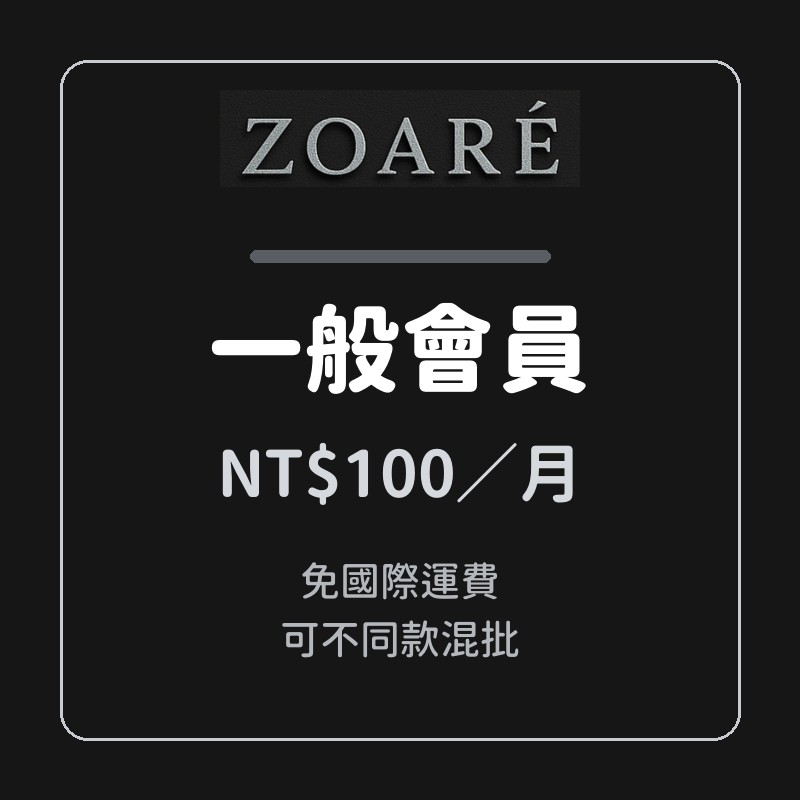
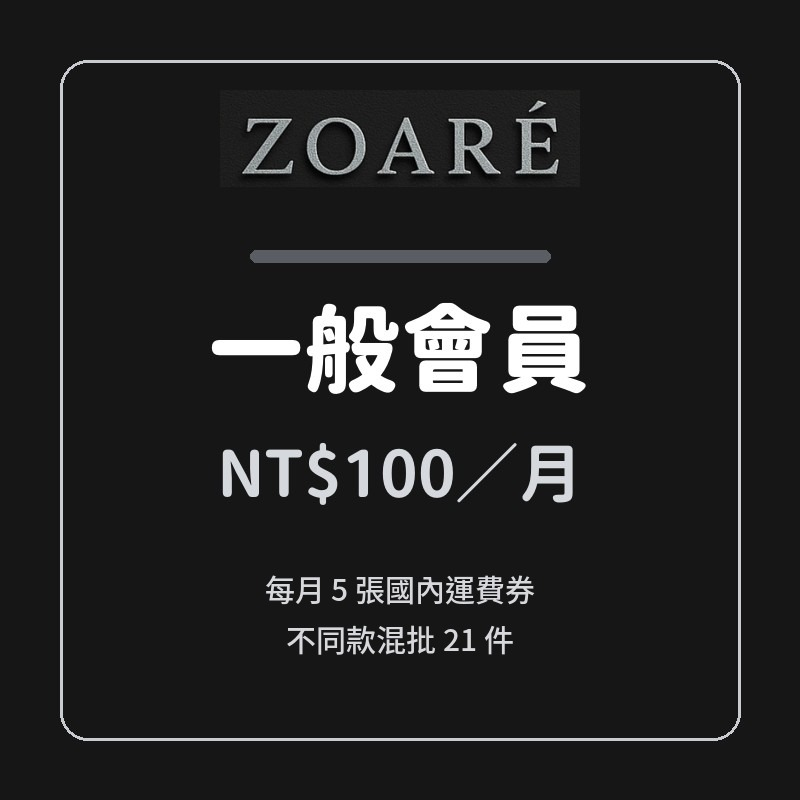
運費券取代會員免運（一般5張國內、VIP 10國內＋10國際）、每次出貨國內$60＋國際每公斤$220、湊滿時 LINE 問客人出貨或順延；更新歡迎訊息、會員卡片、AI 客服規則
Claude-Session: https://claude.ai/code/session_01AQ8Wd57HiUH89BJX3KnLGT

Changed region(s): [[0.3125, 0.6875, 0.6875, 0.8438]]

diff --git a/shop.js b/shop.js
@@ -87,8 +87,8 @@ function packN(it) {
 let SLIM = null, SLIM_SRC = null, SLIM_TXT = null, SLIM_TXT_KEY = "";
 function hashStr(s) { let h = 5381; for (let i = 0; i < s.length; i++) h = ((h << 5) + h + s.charCodeAt(i)) | 0; return (h >>> 0).toString(36) + s.length.toString(36); }
 const MEMBER_ITEMS = [
-  { k: "MEMBER|VIP", n: "VIP 會員（月費）國際＋國內運費全免・VIP 專屬價", b: "ZOARÉ 會員方案", s: "", g: 1000, v: 1000, img: "https://raw.githubusercontent.com/Gg86384577/zoare-images/main/img/member_vip.jpg", moq: 0, box: 0, pk: "", st: "", sh: "", dl: "", jan: "", ad: "", c: ["會員方案"], mem: "vip" },
-  { k: "MEMBER|GEN", n: "一般會員（月費）只免國際運費", b: "ZOARÉ 會員方案", s: "", g: 100, v: 100, img: "https://raw.githubusercontent.com/Gg86384577/zoare-images/main/img/member_gen.jpg", moq: 0, box: 0, pk: "", st: "", sh: "", dl: "", jan: "", ad: "", c: ["會員方案"], mem: "member" },
+  { k: "MEMBER|VIP", n: "VIP 會員（月費）每月 10 張國內＋10 張國際運費券・VIP 專屬價", b: "ZOARÉ 會員方案", s: "", g: 1000, v: 1000, img: "https://raw.githubusercontent.com/Gg86384577/zoare-images/main/img/member_vip.jpg?v=2", moq: 0, box: 0, pk: "", st: "", sh: "", dl: "", jan: "", ad: "", c: ["會員方案"], mem: "vip" },
+  { k: "MEMBER|GEN", n: "一般會員（月費）每月 5 張國內運費券", b: "ZOARÉ 會員方案", s: "", g: 100, v: 100, img: "https://raw.githubusercontent.com/Gg86384577/zoare-images/main/img/member_gen.jpg?v=2", moq: 0, box: 0, pk: "", st: "", sh: "", dl: "", jan: "", ad: "", c: ["會員方案"], mem: "member" },
 ];
 // 網站多加的分類（LINE 選單按鈕有上限，不放這些）
 const WEB_CATS = [
@@ -333,7 +333,7 @@ export async function handleShop(request, env, ctx, deps) {
     if (!uid) return Response.json({ ok: false, error: "連結無效，請回到 LINE 重新點訂購連結" }, { status: 401 });
     const tier = await getTier(env, uid);
     const mi = await memberInfo(env, uid);
-    return Response.json({ ok: true, name: await deps.displayName(env, uid), tier, tierName: TIER_NAME[tier], until: mi.until ? fmtDay(mi.until) : "", days: mi.days, coupons: await couponView(env, uid), camp: activeCampaign() });
+    return Response.json({ ok: true, name: await deps.displayName(env, uid), tier, tierName: TIER_NAME[tier], until: mi.until ? fmtDay(mi.until) : "", days: mi.days, coupons: await couponView(env, uid), camp: activeCampaign(), sc: await shipCoupons(env, uid), shipRule: SHIP_RULE });
   }
   if (p === "/shop/orders") {
     const uid = await verifyToken(env, url.searchParams.get("t"));
@@ -449,7 +449,8 @@ export async function couponView(env, uid) {
 export async function couponText(env, uid, link) {
   const v = await couponView(env, uid), camp = activeCampaign();
   const ok = v.filter((c) => c.status === "可使用"), wait = v.filter((c) => c.status === "付款後生效");
-  let t = ok.length || wait.length ? "🎟 您的折抵券\n\n" + [...ok, ...wait].map((c) => `・NT$${c.amt} 折抵券（${c.name}）\n　${c.status === "可使用" ? "✅ 可使用" : "⏳ 付款後生效"}・訂單滿 NT$${c.min.toLocaleString()} 可用・有效到 ${c.exp.slice(5).replace("-", "/")}`).join("\n") : "目前沒有可使用的折抵券喔";
+  const sc = await shipCoupons(env, uid);
+  let t = shipCouponLine(sc) + "\n" + SHIP_RULE + "\n\n" + (ok.length || wait.length ? "🎟 您的折抵券\n\n" + [...ok, ...wait].map((c) => `・NT$${c.amt} 折抵券（${c.name}）\n　${c.status === "可使用" ? "✅ 可使用" : "⏳ 付款後生效"}・訂單滿 NT$${c.min.toLocaleString()} 可用・有效到 ${c.exp.slice(5).replace("-", "/")}`).join("\n") : "目前沒有可使用的折抵券喔");
   if (camp) t += `\n\n🎀 ${camp.name}進行中（${camp.from.slice(5).replace("-", "/")}～${camp.to.slice(5).replace("-", "/")}）\n${[].concat(camp.cat).join("、")}商品訂單滿額：${camp.tiers.slice().reverse().map(([a, b]) => `滿 $${a.toLocaleString()} 送 $${b.toLocaleString()}`).join("、")}`;
   return t + `\n\n下單時在購物車選擇折抵券就會自動扣除👇\n${link}`;
 }
@@ -506,7 +507,7 @@ export async function computePools(env, deps = {}) {
     for (const l of o.lines || []) {
       if (l.mem) continue;
       const m = l.m || mfrOf(l.b);
-      if ((o.po && o.po[m]) || (o.sh && o.sh[m])) continue;
+      if ((o.po && o.po[m]) || (o.sh && o.sh[m]) || (o.defer && o.defer[m])) continue;
       const p = (pools[m] = pools[m] || { nt: 0, orders: [], since: o.paidAt || o.at });
       p.nt += lineCostNT(o, l);
       if (!p.orders.includes(o.id)) p.orders.push(o.id);
@@ -523,10 +524,60 @@ export async function computePools(env, deps = {}) {
       await deps.lineApi(env, "/v2/bot/message/push", { to: owner, messages: [{ type: "text", text: `📦 ${m} 已湊滿叫貨金額！\n已付款待叫貨：NT$${p.nt.toLocaleString()}（門檻 NT$${need.toLocaleString()}）\n訂單 ${p.orders.length} 筆：${p.orders.join("、")}\n\n請到後台「叫貨」查看要叫的商品，叫完傳「叫貨 ${m} 完成」` }] }).catch(() => {});
       notified[m] = sig;
     }
+    if (p.nt >= need && deps.lineApi) {
+      const now = new Date(Date.now() + 8 * 3600e3).toISOString().slice(0, 16).replace("T", " ");
+      for (const id of p.orders) {
+        const o = orders.find((x) => x.id === id);
+        if (!o || (o.ask && o.ask[m])) continue;
+        o.ask = o.ask || {}; o.ask[m] = { at: now, ans: "" };
+        await saveOrder(env, o);
+        const its = o.lines.filter((l) => !l.mem && (l.m || mfrOf(l.b)) === m);
+        await deps.lineApi(env, "/v2/bot/message/push", { to: o.uid, messages: [{ type: "text", text: `🎉 ${m} 已經湊滿發貨金額囉！\n您的訂單 ${id} 裡這家的商品：\n${its.slice(0, 8).map((l) => `・${l.n} ×${l.q}`).join("\n")}${its.length > 8 ? `\n…共 ${its.length} 款` : ""}\n\n要這批一起向日本叫貨、到貨就寄出嗎？\n${SHIP_RULE}\n\n想等其他廠商一起寄可以選「順延」，這批會先讓排下一位的客人出貨，下一批湊滿再問您～`, quickReply: { items: [{ type: "action", action: { type: "message", label: "✅ 這次出貨", text: `這次出貨 ${id} ${m}` } }, { type: "action", action: { type: "message", label: "⏸ 順延下一批", text: `順延 ${id} ${m}` } }] } }] }).catch(() => {});
+      }
+    }
   }
   const out = { at: Date.now(), rate, need, pools, notified };
   await env.SESSIONS.put("pools", JSON.stringify(out));
   return out;
+}
+// ---------- 運費券（每月發放，取代原本的會員免運） ----------
+export const SHIP_DOM = 60, SHIP_KG = 220;
+export const SC_QUOTA = { vip: { dom: 10, intl: 10 }, member: { dom: 5, intl: 0 }, none: { dom: 0, intl: 0 } };
+const ymTW = () => new Date(Date.now() + 8 * 3600e3).toISOString().slice(0, 7);
+export async function shipCoupons(env, uid) {
+  const tier = await getTier(env, uid), q = SC_QUOTA[tier] || SC_QUOTA.none, ym = ymTW();
+  const used = JSON.parse((await env.SESSIONS.get(`sc:${uid}:${ym}`)) || '{"dom":0,"intl":0}');
+  return { tier, ym, quota: q, used, dom: Math.max(0, q.dom - used.dom), intl: Math.max(0, q.intl - used.intl) };
+}
+async function useShipCoupon(env, uid, kind) {
+  const c = await shipCoupons(env, uid);
+  if (!(c[kind] > 0)) return false;
+  c.used[kind] = (c.used[kind] || 0) + 1;
+  await env.SESSIONS.put(`sc:${uid}:${c.ym}`, JSON.stringify(c.used), { expirationTtl: 70 * 86400 });
+  return true;
+}
+export function shipCouponLine(c) {
+  if (!c || (!c.quota.dom && !c.quota.intl)) return "🚚 運費券：加入會員每月送（一般會員 5 張國內、VIP 10 張國內＋10 張國際）";
+  return `🚚 本月運費券：國內 ${c.dom}/${c.quota.dom} 張${c.quota.intl ? `、國際 ${c.intl}/${c.quota.intl} 張` : ""}（每月 1 號重新發放）`;
+}
+export const SHIP_RULE = `每次出貨國內運費 NT$${SHIP_DOM}，國際運費依物流公司報價（約每公斤 NT$${SHIP_KG}）；會員出貨時自動用運費券折抵`;
+// 客人回覆「這次出貨／順延」
+export async function customerShipReply(env, uid, text, deps = {}) {
+  const m0 = String(text || "").match(/^(這次出貨|順延)\s+(ZO\w{10})\s+(.+)$/i);
+  if (!m0) return null;
+  const id = m0[2].toUpperCase(), m = m0[3].trim(), o = JSON.parse((await env.SESSIONS.get("o:" + id)) || "null");
+  if (!o || o.uid !== uid) return "找不到這張訂單，可以傳「我的訂單」查看～";
+  if (!orderMfrs(o).includes(m)) return `訂單 ${id} 裡沒有「${m}」的商品喔`;
+  if (o.po && o.po[m]) return `訂單 ${id} 的 ${m} 商品已經向日本叫貨囉，到貨就會寄出～`;
+  const now = new Date(Date.now() + 8 * 3600e3).toISOString().slice(0, 16).replace("T", " ");
+  o.ask = o.ask || {}; o.ask[m] = Object.assign(o.ask[m] || {}, { ans: m0[1] === "順延" ? "順延" : "出貨", ansAt: now });
+  o.defer = o.defer || {};
+  if (m0[1] === "順延") o.defer[m] = { at: now }; else delete o.defer[m];
+  await saveOrder(env, o);
+  try { await computePools(env, deps); } catch (e) {}
+  const owner = await env.SESSIONS.get("owner");
+  if (owner && deps.lineApi) await deps.lineApi(env, "/v2/bot/message/push", { to: owner, messages: [{ type: "text", text: `${m0[1] === "順延" ? "⏸" : "✅"} ${o.lineName || "客人"}（${id}）${m}：${m0[1] === "順延" ? "選擇順延到下一批" : "確認這次出貨"}` }] }).catch(() => {});
+  return m0[1] === "順延" ? `好的👌 訂單 ${id} 的 ${m} 商品順延到下一批\n這批會先讓排下一位的客人出貨，下一批湊滿時會再問您～` : `好的👌 訂單 ${id} 的 ${m} 商品會在這批一起向日本叫貨，到貨就寄出～\n${SHIP_RULE}`;
 }
 export async function getPools(env) { return JSON.parse((await env.SESSIONS.get("pools")) || "null") || { pools: {}, need: poolNeed(await cnyRate(env)), rate: await cnyRate(env) }; }
 // 一張訂單裡每家製造商目前的狀態（給客人看）
@@ -541,6 +592,7 @@ export function mfrStatusSync(o, P, need) {
     else if (o.status === "已出貨") out.push({ m, s: "已出貨", k: "sh" });
     else if (o.status === "已取消") out.push({ m, s: "已取消", k: "x" });
     else if (o.po && o.po[m]) out.push({ m, s: "已向日本叫貨（" + mmdd(o.po[m].at) + "），到貨就先寄這家的商品", k: "po" });
+    else if (o.status === "已付款" && o.defer && o.defer[m]) out.push({ m, s: "已順延到下一批（下一批湊滿會再問您）", k: "defer" });
     else if (o.status !== "已付款") { const p = P[m]; out.push({ m, s: `付款後開始湊單（這家目前 ${p ? p.pct : 0}%${gap(p)}）`, k: "wait" }); }
     else { const p = P[m], qi = p ? p.orders.indexOf(o.id) + 1 : 0, qn = qi > 0 ? `・排第 ${qi} 位（先付款先寄）` : ""; out.push({ m, s: (p && p.nt >= need ? "已湊滿，準備向日本叫貨" : `湊單中 ${p ? p.pct : 0}%${gap(p)}（滿 NT$${need.toLocaleString()} 叫貨）`) + qn, k: "pool" }); }
   }
@@ -574,7 +626,7 @@ async function payInfo(env, pay) {
 const payHow = (pay) => pay === "LINE Pay" ? "付款後請回到 LINE 傳「付款截圖」給我們" : "轉帳後請回到 LINE 傳「後五碼」和「轉帳截圖」給我們";
 function orderText(o, withRules = true) {
   const items = o.lines.map((l) => `・${l.n} ×${l.q}　NT$${l.sub.toLocaleString()}`).join("\n");
-  return `訂單編號：${o.id}\n${items}\n\n共 ${o.qty} 件　${o.coupon ? `小計 NT$${(o.subtotal || o.total + o.coupon.amt).toLocaleString()}\n🎟 折抵券 −NT$${o.coupon.amt}\n` : ""}合計 NT$${o.total.toLocaleString()}（${TIER_NAME[o.tier]}價）${o.earned ? `\n🎁 ${o.earned.camp}：付款後送 NT$${o.earned.amt} 折抵券（下次使用）` : ""}\n運費：${o.tier === "vip" ? "VIP 免運" : "由客服確認後通知"}` +
+  return `訂單編號：${o.id}\n${items}\n\n共 ${o.qty} 件　${o.coupon ? `小計 NT$${(o.subtotal || o.total + o.coupon.amt).toLocaleString()}\n🎟 折抵券 −NT$${o.coupon.amt}\n` : ""}合計 NT$${o.total.toLocaleString()}（${TIER_NAME[o.tier]}價）${o.earned ? `\n🎁 ${o.earned.camp}：付款後送 NT$${o.earned.amt} 折抵券（下次使用）` : ""}\n運費：依廠商分批寄出，每次出貨國內 NT$${SHIP_DOM}，國際依物流報價（約每公斤 NT$${SHIP_KG}），會員用運費券折抵${o.shipDue ? `\n已出貨運費：NT$${o.shipDue.toLocaleString()}` : ""}` +
     `\n付款方式：${o.form.pay || "轉帳"}` +
     (withRules && o.notes.length ? `\n\n⚠ 訂購規則提醒：\n${o.notes.slice(0, 8).map((n) => "・" + n).join("\n")}` : "");
 }
@@ -701,7 +753,8 @@ export async function shopOwnerCommand(env, text, deps = {}) {
     const m = pm[1].trim(), now = new Date(Date.now() + 8 * 3600e3).toISOString().slice(0, 16).replace("T", " ");
     const orders = await allOrders(env, 500); let n = 0;
     for (const o of orders) {
-      if (o.status !== "已付款" || !(o.lines || []).some((l) => !l.mem && (l.m || mfrOf(l.b)) === m) || (o.po && o.po[m])) continue;
+      if (o.status !== "已付款" || !(o.lines || []).some((l) => !l.mem && (l.m || mfrOf(l.b)) === m) || (o.po && o.po[m]) || (o.sh && o.sh[m])) continue;
+      if (o.defer && o.defer[m]) { delete o.defer[m]; if (o.ask) delete o.ask[m]; await saveOrder(env, o); continue; } // 順延的客人回到下一批
       o.po = o.po || {}; o.po[m] = { at: now }; await saveOrder(env, o); n++;
     }
     await computePools(env, deps);
@@ -762,17 +815,26 @@ export async function shopOwnerCommand(env, text, deps = {}) {
     if (!["已付款", "已出貨"].includes(o.status)) return `訂單 ${id} 目前是「${o.status}」，付款後才能出貨`;
     const ms = orderMfrs(o), rest = sm[2].trim(), m = ms.slice().sort((a, b) => b.length - a.length).find((x) => rest === x || rest.startsWith(x + " ") || rest.startsWith(x + "/"));
     if (!m) return `訂單 ${id} 裡沒有這家廠商。這張訂單的廠商：${ms.join("、")}\n格式：${id} 分批出貨 廠商名 物流單號`;
-    const track = rest.slice(m.length).replace(/^[\s/]+/, "").trim().slice(0, 60);
+    let track = rest.slice(m.length).replace(/^[\s/]+/, "").trim();
+    const kgm = track.match(/(\d+(?:\.\d+)?)\s*(?:kg|公斤)/i), kg = kgm ? Number(kgm[1]) : 0;
+    if (kgm) track = track.replace(kgm[0], "").trim();
+    track = track.slice(0, 60);
+    const domCp = await useShipCoupon(env, o.uid, "dom"), intlCp = await useShipCoupon(env, o.uid, "intl");
+    const fee = { dom: domCp ? 0 : SHIP_DOM, domCp, intlCp, kg, intl: intlCp ? 0 : kg ? Math.ceil(kg * SHIP_KG) : null };
+    const due = fee.dom + (fee.intl || 0);
+    o.shipDue = (o.shipDue || 0) + due;
     const now = new Date(Date.now() + 8 * 3600e3).toISOString().slice(0, 16).replace("T", " ");
-    o.sh = o.sh || {}; o.sh[m] = { at: now, track };
+    o.sh = o.sh || {}; o.sh[m] = { at: now, track, fee };
+    const sc = await shipCoupons(env, o.uid);
+    const feeTxt = `\n\n本次運費\n・國內：${domCp ? "已用國內運費券折抵 ✅" : "NT$" + SHIP_DOM}\n・國際：${intlCp ? "已用國際運費券折抵 ✅" : kg ? `${kg} 公斤 × NT$${SHIP_KG} = NT$${fee.intl.toLocaleString()}` : "依物流公司報價，確定後另外通知"}${due ? `\n本次運費合計 NT$${due.toLocaleString()}，客服會跟您確認付款～` : ""}\n${shipCouponLine(sc)}`;
     const left = ms.filter((x) => !o.sh[x]);
     const items = o.lines.filter((l) => !l.mem && (l.m || mfrOf(l.b)) === m);
     if (!left.length) { o.statusBefore = o.status; o.status = "已出貨"; if (track) o.track = track; }
     await env.SESSIONS.put("o:" + id, JSON.stringify(o), { expirationTtl: 180 * 86400 });
-    const msg = `🚚 您的訂單 ${id} ${left.length ? "有商品先出貨囉！" : "最後一批商品出貨囉！"}\n廠商：${m}\n${items.map((l) => `・${l.n} ×${l.q}`).join("\n")}${track ? "\n物流單號：" + track : ""}\n\n${left.length ? "其他廠商的商品（" + left.join("、") + "）到貨後會再寄出，可以傳「我的訂單」查看進度～" : "這張訂單的商品全部寄出了，收到貨有任何問題都可以跟我們說～"}`;
+    const msg = `🚚 您的訂單 ${id} ${left.length ? "有商品先出貨囉！" : "最後一批商品出貨囉！"}\n廠商：${m}\n${items.map((l) => `・${l.n} ×${l.q}`).join("\n")}${track ? "\n物流單號：" + track : ""}\n\n${left.length ? "其他廠商的商品（" + left.join("、") + "）到貨後會再寄出，可以傳「我的訂單」查看進度～" : "這張訂單的商品全部寄出了，收到貨有任何問題都可以跟我們說～"}${feeTxt}`;
     let sent = false;
     if (deps.lineApi) { const r = await deps.lineApi(env, "/v2/bot/message/push", { to: o.uid, messages: [{ type: "text", text: msg }] }); sent = r && r.ok; }
-    return `好👌 ${id}「${m}」的商品已標記出貨${track ? "（物流單號 " + track + "）" : ""}${left.length ? "\n還沒出貨：" + left.join("、") : "\n整張訂單都出貨了，狀態改成「已出貨」"}${sent ? "\n已通知客人" : ""}`;
+    return `好👌 ${id}「${m}」的商品已標記出貨${track ? "（物流單號 " + track + "）" : ""}\n運費：國內 ${domCp ? "用券" : "NT$" + SHIP_DOM}・國際 ${intlCp ? "用券" : kg ? "NT$" + fee.intl : "待報價"}${due ? `，要跟客人收 NT$${due}` : ""}${left.length ? "\n還沒出貨：" + left.join("、") : "\n整張訂單都出貨了，狀態改成「已出貨」"}${sent ? "\n已通知客人" : ""}`;
   }
   const om = t.match(/^(ZO\w{10})(?:\s*(已付款|已出貨|取消)(?:\s+(.+))?)?$/i);
   if (om) {
@@ -1111,8 +1173,9 @@ let CPSEL="";
 const CST={"可使用":"#1f6b33","付款後生效":"#8a5a00","已使用":"#888","已過期":"#888","已失效":"#888"};
 function cpCard(c){return '<div class="cp'+(c.status==="可使用"||c.status==="付款後生效"?'':' off')+'"><div class="cpa">NT$'+c.amt+'</div><div class="cpt"><b>'+esc(c.name)+' 折抵券</b><br><small>訂單滿 NT$'+c.min.toLocaleString()+' 可用・有效到 '+esc(c.exp.slice(5).replace("-","/"))+'</small><br><span style="color:'+(CST[c.status]||"#888")+';font-weight:700;font-size:12px">'+esc(c.status==="付款後生效"?"⏳ 訂單 "+c.src+" 付款後生效":c.status==="已使用"?"已使用（"+c.used+"）":c.status)+'</span></div></div>'}
 function campLine(){const C=ME&&ME.camp;if(!C)return"";const tl=C.tiers.slice().reverse().map(t=>"滿 $"+t[0].toLocaleString()+" 送 $"+t[1].toLocaleString()).join("・");return '<div class="camp">🎀 <b>'+esc(C.name)+'</b>（'+C.from.slice(5).replace("-","/")+'～'+C.to.slice(5).replace("-","/")+'）<br>'+esc([].concat(C.cat).join('、'))+'商品不用整箱，訂單達指定金額就送：'+tl+'<br><small>付款後生效，30 天內下次訂購使用，訂單滿券面 5 倍可折抵</small></div>'}
+function scLine(c){if(!c||(!c.quota.dom&&!c.quota.intl))return"🚚 加入會員每月送運費券（一般會員 5 張國內、VIP 10 張國內＋10 張國際）";return"🚚 本月運費券：國內 "+c.dom+"/"+c.quota.dom+" 張"+(c.quota.intl?"、國際 "+c.intl+"/"+c.quota.intl+" 張":"")+"，出貨時自動折抵"}
 function openCoupons(){$("#panel").classList.remove("vmode");VK=null;const L=(ME.coupons||[]);
-  $("#panel").innerHTML='<h2>我的優惠券<button class="x" id="cpx">×</button></h2>'+campLine()+(L.length?L.map(cpCard).join(""):'<div class="empty">目前還沒有折抵券喔</div>');
+  $("#panel").innerHTML='<h2>我的優惠券<button class="x" id="cpx">×</button></h2>'+'<div class="camp" style="background:#f4f1ea;border-color:#e2d9c2;color:#3a3a3a"><b>'+esc(scLine(ME.sc))+'</b><br><small>'+esc(ME.shipRule||"")+'（每月 1 號重新發放，當月有效）</small></div>'+campLine()+(L.length?L.map(cpCard).join(""):'<div class="empty">目前還沒有折抵券喔</div>');
   $("#sheet").classList.add("on");$("#cpx").onclick=()=>$("#sheet").classList.remove("on")}
 function caseN(x){const m=String(x.pk||"").match(/(?:入数|入數|装箱数|裝箱數)\\s*(\\d+)/);return m?+m[1]:0}
 function campEarn(L){const C=ME&&ME.camp;if(!C)return null;let base=0;L.forEach(({x,q,sub})=>{if(!x.mem&&(x.c||[]).some(c=>[].concat(C.cat).includes(c)))base+=sub});const t=C.tiers.find(t=>base>=t[0]),nx=C.tiers.slice().reverse().find(t=>base<t[0]);return{base,amt:t?t[1]:0,next:nx}}
@@ -1127,7 +1190,7 @@ function renderCart(){$("#panel").classList.remove("vmode");VK=null;
   $("#panel").innerHTML='<h2>購物車<button class="x" id="cx">×</button></h2>'+
   L.map(({x,q,sub})=>'<div class="row" data-k="'+esc(x.k)+'">'+(x.img?'<img src="'+esc(x.img)+'">':'')+'<div class="t">'+esc(x.n)+'<br><small>'+fmt(price(x))+' × '+q+' = '+fmt(sub)+'</small></div>'+qtyBox(x,q)+'</div>').join("")+
   (N.length?'<div class="warn"><b>訂購規則提醒</b><br>'+N.map(esc).join("<br>")+'</div>':'')+
-  cpHTML+'<div class="tot">共 '+L.length+' 款 '+n+' 件<br>'+(sel?'小計 '+fmt(sum0)+'　🎟 折抵 −'+fmt(sel.amt)+'<br>':'')+'合計 <b>'+fmt(total)+'</b>（'+esc(TN[TIER()])+'價）'+(TIER()!==ME.tier?'<br><small style="color:#9e1b1b">🎉 購物車有會員方案，送出後自動升級為'+TN[TIER()]+'，這張訂單直接套用會員價</small>':'')+'<br><small style="color:#6b6f75">運費：'+(TIER()==="vip"?"VIP 免運":"由客服確認後通知")+'</small></div>'+
+  cpHTML+'<div class="tot">共 '+L.length+' 款 '+n+' 件<br>'+(sel?'小計 '+fmt(sum0)+'　🎟 折抵 −'+fmt(sel.amt)+'<br>':'')+'合計 <b>'+fmt(total)+'</b>（'+esc(TN[TIER()])+'價）'+(TIER()!==ME.tier?'<br><small style="color:#9e1b1b">🎉 購物車有會員方案，送出後自動升級為'+TN[TIER()]+'，這張訂單直接套用會員價</small>':'')+'<br><small style="color:#6b6f75">運費：依廠商分批寄出，每次出貨國內 NT$60，國際運費依物流報價（約每公斤 NT$220）'+(ME.sc&&TIER()===ME.tier?'<br>'+esc(scLine(ME.sc)):'<br>會員每月送運費券：一般會員 5 張國內、VIP 10 張國內＋10 張國際')+'</small></div>'+
   '<form id="of"><label>收件人姓名</label><input class="f" name="name" required value="'+esc(form.name||"")+'">'+
   '<label>手機號碼</label><input class="f" name="phone" type="tel" required value="'+esc(form.phone||"")+'">'+
   '<label>寄送方式</label><select class="f" name="ship" required>'+["7-11 店到店","全家店到店","萊爾富店到店","宅配","其他"].map(s=>'<option'+(form.ship===s?" selected":"")+'>'+s+'</option>').join("")+'</select>'+
@@ -1532,12 +1595,12 @@ export async function membershipCards(env, uid) {
   const link = (await shopLink(env, uid)) + "&q=" + encodeURIComponent("會員方案");
   const tier = await getTier(env, uid);
   const bubbles = [
-    memBubble("👑 VIP 會員", "NT$1,000／月", ["國際＋國內運費全免", "全館 VIP 價，每件比一般價便宜 NT$30", "真正少量叫貨：每款照商品起批數（很多款 2～3 件），沒有總件數限制（依廠商湊單、需等待）", "新品優先通知"], RAW_IMG + "member_vip.jpg", "加入 VIP 會員", link, true),
-    memBubble("一般會員", "NT$100／月", ["免國際運費", "每款照商品起批數（很多款 2～3 件），不同款混批 21 件", "商品用一般價"], RAW_IMG + "member_gen.jpg", "加入一般會員", link, false),
+    memBubble("👑 VIP 會員", "NT$1,000／月", ["每月 10 張國內＋10 張國際運費券", "全館 VIP 價，每件比一般價便宜 NT$30", "真正少量叫貨：每款照商品起批數（很多款 2～3 件），沒有總件數限制（依廠商湊單、需等待）", "新品優先通知"], RAW_IMG + "member_vip.jpg?v=2", "加入 VIP 會員", link, true),
+    memBubble("一般會員", "NT$100／月", ["每月 5 張國內運費券", "每款照商品起批數（很多款 2～3 件），不同款混批 21 件", "商品用一般價"], RAW_IMG + "member_gen.jpg?v=2", "加入一般會員", link, false),
   ];
   const mi = await memberInfo(env, uid);
   const exp = mi.until ? `有效到 ${fmtDay(mi.until)}（還有 ${mi.days} 天）` : "";
-  const head = tier === "vip" ? `您已經是 VIP 會員囉👑 ${exp}\n要續約可以點下面直接下單，會從到期日往後延長～` : tier === "member" ? `您目前是一般會員，${exp}\n升級 VIP 運費全免、每件再便宜 NT$30👇` : "ZOARÉ 批發會員方案👇 付款完成會自動開通，效期 1 個月";
+  const head = tier === "vip" ? `您已經是 VIP 會員囉👑 ${exp}\n要續約可以點下面直接下單，會從到期日往後延長～` : tier === "member" ? `您目前是一般會員，${exp}\n升級 VIP 每月 10 張國內＋10 張國際運費券、每件再便宜 NT$30、沒有總件數限制👇` : "ZOARÉ 批發會員方案👇 付款完成會自動開通，效期 1 個月";
   const out = [{ type: "flex", altText: head, contents: { type: "carousel", contents: bubbles } }];
   if (tier !== "none") out.unshift({ type: "text", text: head });
   return out;
@@ -1549,6 +1612,7 @@ export async function welcomeMessages(env, uid, name) {
   const hi = name ? `${name} 您好～` : "您好～";
   const text = `${hi}歡迎加入 ZOARÉ 🎉
 我們是日本角色商品批發，吉伊卡哇、三麗鷗、寶可夢、史努比、角落生物…上千款日本正版商品，集單預購、批發價直送台灣🇯🇵
+日本廠商要湊滿一定金額才接單，我們幫大家依廠商合併湊單，商城每個商品下面都看得到湊單進度
 
 ━━ 怎麼買？3 個步驟 ━━
 ① 找商品：直接在這裡打角色名字，例如「吉伊卡哇」「酷洛米」，馬上傳商品卡片給您
@@ -1568,17 +1632,24 @@ ${link}
 ・非會員：每款 21 件起（照商品起批數的倍數，例如起批 3 件→21 件、2 件→22 件）
 ・一般會員：每款照商品起批數（很多款 2～3 件），不同款混批合計 21 件
 ・VIP 會員：每款照商品起批數就能少量下單，沒有總件數限制
-・所有訂單都依廠商湊單（同一廠商累積滿 NT$20,000 才向日本叫貨），先付款先寄
+・所有訂單都依廠商湊單：同一廠商所有客人已付款的訂單累積滿 NT$20,000 就向日本叫貨，先付款先寄
+・湊滿時會用 LINE 問您要這批出貨還是順延（想等其他廠商一起寄可以選順延）
+・一張訂單有多家廠商時，哪家先到貨就先寄哪家
+
+━━ 運費 ━━
+・每次出貨國內運費 NT$60，國際運費依物流公司報價（約每公斤 NT$220）
+・會員每月送運費券，出貨時自動折抵
 👉 想少量多樣進貨，加入會員最划算
 
 ━━ 會員方案 ━━
 👑 VIP 會員 NT$1,000／月（推薦）
-・國際＋國內運費全免
+・每月 10 張國內＋10 張國際運費券
 ・全館 VIP 價，每件再便宜 NT$30
+・真正少量叫貨，沒有總件數限制
 ・新品優先通知
-🔹 一般會員 NT$100／月：只免國際運費
+🔹 一般會員 NT$100／月：每月 5 張國內運費券，不同款混批 21 件
 
-💡 幫您算：每月進貨 34 件以上，VIP 每件省的 NT$30 就把月費賺回來了，運費還全免！
+💡 幫您算：每月進貨 34 件以上，VIP 每件省的 NT$30 就把月費賺回來了，還有 20 張運費券！
 點下面卡片就能直接加入，付款完成自動開通👇`;
   const qrs = [["🔥 熱賣推薦", "熱賣推薦"], ["吉伊卡哇", "吉伊卡哇"], ["三麗鷗", "三麗鷗"], ["✨ 新品上線", "新品上線"], ["加入 VIP", "會員方案"]];
   const cards = await membershipCards(env, uid);

diff --git a/admin.js b/admin.js
@@ -27,7 +27,7 @@ async function poolData(env, deps, orders) {
         it.q += l.q; if (!it.ids.includes(id)) it.ids.push(id);
       }
     }
-    const ords = p.orders.map((id) => byId.get(id)).filter(Boolean).map((o) => ({ id: o.id, name: o.lineName, tier: TIER_NAME[o.tier] || "非會員", at: o.paidAt || o.at }));
+    const ords = p.orders.map((id) => byId.get(id)).filter(Boolean).map((o) => ({ id: o.id, name: o.lineName, tier: TIER_NAME[o.tier] || "非會員", at: o.paidAt || o.at, ans: o.ask && o.ask[m] ? o.ask[m].ans || "未回覆" : "" }));
     return { m, nt: p.nt, pct: p.pct, ready: p.nt >= P.need, since: p.since, orders: ords, items: Object.values(items).sort((a, b) => b.q - a.q) };
   }).sort((a, b) => b.nt - a.nt);
   const waiting = [];
@@ -159,12 +159,12 @@ $("#nav").onclick=e=>{const b=e.target.closest("button");if(!b)return;V=b.datase
 function render(){({home,orders,cust,sales,set,carts,pools})[V]()}
 function ago(t){const m=Math.floor((Date.now()-t)/6e4);return m<60?m+" 分鐘前":m<1440?Math.floor(m/60)+" 小時前":Math.floor(m/1440)+" 天前"}
 function pools(){const P=D.pools||{list:[]},L=P.list||[],R=L.filter(p=>p.ready);
-  $("#m").innerHTML='<div class="card"><h3>廠商叫貨進度（門檻 NT$'+(P.need||20000).toLocaleString()+'）</h3><p class="meta">只算「已付款」還沒向日本叫貨的訂單，以進價計算（人民幣 4,000 元換算，最低 NT$20,000，匯率高時跟著調高）。同一廠商不同 IP／系列、不同客人的訂單都合併計算，先付款先寄。滿門檻會自動 LINE 通知你；叫完貨按「標記已叫貨」，這些訂單的狀態會變成「已向日本叫貨」，客人查訂單看得到。</p>'+(R.length?'<p style="margin:8px 0 0"><b style="color:#b8954a">✅ 可以叫貨：'+R.map(p=>esc(p.m)).join("、")+'</b></p>':'<p class="meta" style="margin-top:8px">目前沒有廠商湊滿</p>')+'</div>'+
+  $("#m").innerHTML='<div class="card"><h3>廠商叫貨進度（門檻 NT$'+(P.need||20000).toLocaleString()+'）</h3><p class="meta">只算「已付款」還沒向日本叫貨的訂單，以進價計算（人民幣 4,000 元換算，最低 NT$20,000，匯率高時跟著調高）。同一廠商不同 IP／系列、不同客人的訂單都合併計算，先付款先寄。滿門檻會自動 LINE 通知你，也會問每位客人「這次出貨」或「順延」（順延的這批不算，下一批再問）；叫完貨按「標記已叫貨」，這些訂單的狀態會變成「已向日本叫貨」，客人查訂單看得到。</p>'+(R.length?'<p style="margin:8px 0 0"><b style="color:#b8954a">✅ 可以叫貨：'+R.map(p=>esc(p.m)).join("、")+'</b></p>':'<p class="meta" style="margin-top:8px">目前沒有廠商湊滿</p>')+'</div>'+
   (L.length?L.map(p=>'<div class="card"><div class="row" style="cursor:default"><span><b>'+esc(p.m)+'</b>　<small class="meta">'+p.orders.length+' 筆訂單</small></span><b style="color:'+(p.ready?'#b8954a':'inherit')+'">NT$'+p.nt.toLocaleString()+'／'+(P.need||20000).toLocaleString()+'</b></div><div style="height:8px;border-radius:4px;background:#eee;overflow:hidden;margin:6px 0"><div style="height:100%;width:'+Math.min(100,p.pct)+'%;background:'+(p.ready?'#b8954a':'#999')+'"></div></div><div class="meta">'+(p.ready?'已湊滿，可以叫貨':'湊單中 '+p.pct+'%，還差 NT$'+Math.max(0,(P.need||20000)-p.nt).toLocaleString())+'</div>'+
-  '<details style="margin-top:8px"'+(p.ready?' open':'')+'><summary class="meta" style="cursor:pointer">要出貨的訂單（'+p.orders.length+'，依付款先後）／商品（'+p.items.length+' 款）</summary><div style="margin:6px 0">'+p.orders.map((o,i)=>'<div class="meta" style="padding:2px 0">'+(i+1)+'. <b>'+esc(o.id)+'</b>　'+esc(o.name||"")+'　'+esc(o.tier)+'　'+esc((o.at||"").slice(5,16).replace("T"," "))+'</div>').join("")+'</div>'+
+  '<details style="margin-top:8px"'+(p.ready?' open':'')+'><summary class="meta" style="cursor:pointer">要出貨的訂單（'+p.orders.length+'，依付款先後）／商品（'+p.items.length+' 款）</summary><div style="margin:6px 0">'+p.orders.map((o,i)=>'<div class="meta" style="padding:2px 0">'+(i+1)+'. <b>'+esc(o.id)+'</b>　'+esc(o.name||"")+'　'+esc(o.tier)+'　'+esc((o.at||"").slice(5,16).replace("T"," "))+(o.ans?'　<b style="color:'+(o.ans==="出貨"?'#1f6b33':o.ans==="順延"?'#9e1b1b':'#8a5a00')+'">'+(o.ans==="出貨"?'✅ 確認出貨':o.ans==="順延"?'⏸ 順延':'⏳ 未回覆')+'</b>':'')+'</div>').join("")+'</div>'+
   p.items.map(i=>'<div style="display:flex;gap:8px;align-items:center;padding:4px 0;border-top:1px solid #eee">'+(i.img?'<img src="'+esc(i.img)+'" style="width:44px;height:44px;object-fit:cover;border-radius:6px">':'<span style="width:44px"></span>')+'<span style="flex:1;font-size:13px">'+esc(i.n)+'<br><small class="meta">JAN '+esc(i.jan||"—")+'</small></span><b>×'+i.q+'</b></div>').join("")+'</details>'+
   (p.ready?'<button class="btn" style="margin-top:8px" onclick="poDone(\''+esc(p.m).replace(/'/g,"")+'\')">標記已叫貨</button>':'')+'</div>').join(""):'<div class="card"><p class="meta">目前沒有已付款待叫貨的訂單</p></div>')+
-  '<div class="card"><h3>已叫貨、等到貨出貨（'+(P.waiting||[]).length+'）</h3><p class="meta">依廠商、付款先後排列。哪家的貨先到，就先把那家的商品寄給客人，按「這家已出貨」會通知客人；同一張訂單全部廠商都出貨後，訂單自動變成「已出貨」。</p></div>'+
+  '<div class="card"><h3>已叫貨、等到貨出貨（'+(P.waiting||[]).length+'）</h3><p class="meta">依廠商、付款先後排列。哪家的貨先到，就先把那家的商品寄給客人，按「這家已出貨」會自動扣運費券（國內 $60、國際每公斤 $220）並通知客人；同一張訂單全部廠商都出貨後，訂單自動變成「已出貨」。</p></div>'+
   (P.waiting||[]).map(w=>'<div class="card"><div class="row" style="cursor:default"><span><b>'+esc(w.m)+'</b>　<small class="meta">'+esc(w.id)+'・'+esc(w.name||"")+'・叫貨 '+esc((w.at||"").slice(5,10))+'</small></span><button class="btn" onclick="shipM(\''+w.id+'\',\''+esc(w.m).replace(/'/g,"")+'\')">🚚 這家已出貨</button></div>'+w.items.map(i=>'<div class="meta" style="padding:2px 0">・'+esc(i.n)+' ×'+i.q+'</div>').join("")+'</div>').join("")}
 window.poDone=
 async m=>{if(!confirm("確定 "+m+" 已向日本叫貨？這些訂單會標記為已叫貨"))return;await cmd("叫貨 "+m+" 完成")};
@@ -195,7 +195,7 @@ function ocard(o){return '<div class="o" data-id="'+o.id+'"><div class="hd"><b>'
   '<div class="btns">'+(["待付款","已回報匯款","待確認"].includes(o.status)?'<button class="dark" onclick="st(\''+o.id+'\',\'已付款\')">✓ 確認已付款</button>':'')+(o.status==="已付款"?'<button class="dark" onclick="ship(\''+o.id+'\')">🚚 出貨</button>':'')+(o.status!=="已取消"&&o.status!=="已出貨"?'<button onclick="st(\''+o.id+'\',\'取消\')">取消訂單</button>':'')+'</div></div>'}
 const ord=id=>D.orders.find(o=>o.id===id);
 window.st=async(id,s)=>{if(s==="取消"&&!confirm("確定取消 "+id+"？會通知客人"))return;await cmd(id+" "+s)};
-window.shipM=async(id,m)=>{const t=prompt(m+" 的商品已出貨\n物流單號（可空白）","");if(t===null)return;await cmd(id+" 分批出貨 "+m+(t?" "+t:""))};
+window.shipM=async(id,m)=>{const t=prompt(m+" 的商品已出貨\n物流單號（可空白）","");if(t===null)return;const kg=prompt("國際運費重量（公斤，每公斤 NT$220；不知道可空白，之後再跟客人報價）","");if(kg===null)return;await cmd(id+" 分批出貨 "+m+(t?" "+t:"")+(kg&&Number(kg)>0?" "+Number(kg)+"kg":""))};
 window.ship=async id=>{const t=prompt("物流單號（可空白）","");if(t===null)return;await cmd(id+" 已出貨"+(t?" "+t:""))};
 window.memo=async id=>{const t=prompt("備註（空白＝清除）",ord(id).memo||"");if(t===null)return;await cmd(id+" 備註 "+t)};
 window.delO=async id=>{if(!confirm("確定刪除訂單 "+id+"？刪除後無法復原"))return;await cmd("刪除 "+id)};
